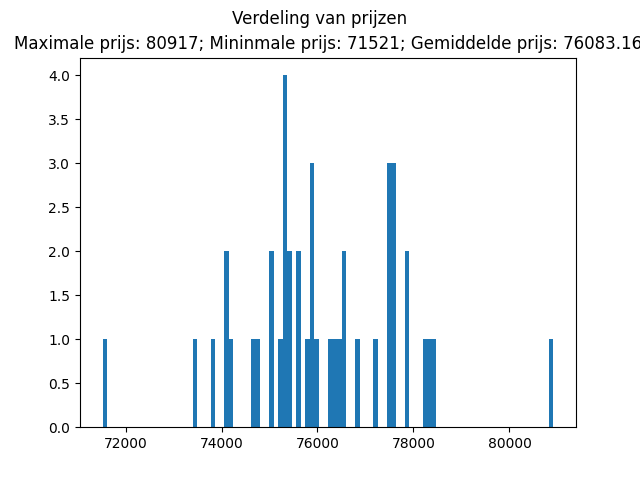
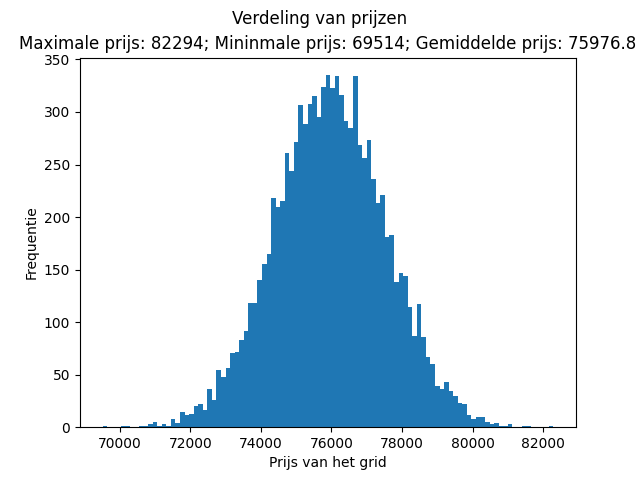
baseline

diff --git a/main.py b/main.py
@@ -25,7 +25,7 @@ price_list = []
 iterations_list = []
 iteration = 0
 
-endTime = time.time() + 60 * 5
+endTime = time.time() + 60 * 30
 
 while time.time() < endTime:
 
@@ -79,5 +79,15 @@ while time.time() < endTime:
 #plt.savefig('lijnPlot.png')
 
 print(iteration)
-plt.hist(price_list, bins = 100)
+
+bins = int(max(iteration/100, 10))
+
+average = round(sum(price_list) / len(price_list), 2)
+max_price = max(price_list)
+min_price = min(price_list)
+plt.hist(price_list, bins = bins)
+plt.suptitle("Verdeling van prijzen")
+plt.title((f"Maximale prijs: {max_price}; Mininmale prijs: {min_price}; Gemiddelde prijs: {average}"))
+plt.xlabel("Prijs van het grid")
+plt.ylabel("Frequentie")
 plt.savefig('histogram.png')
